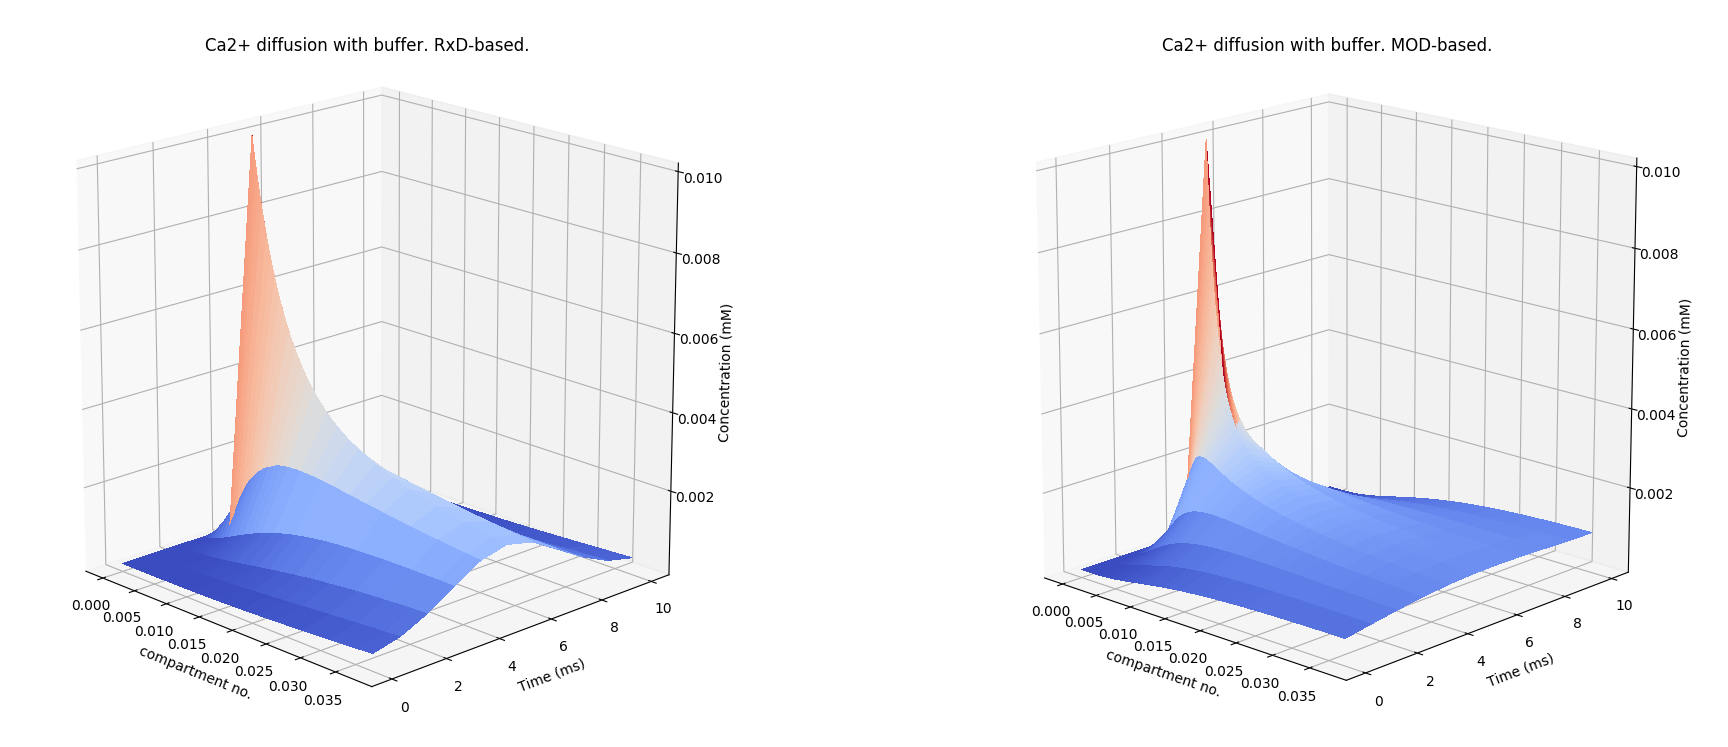
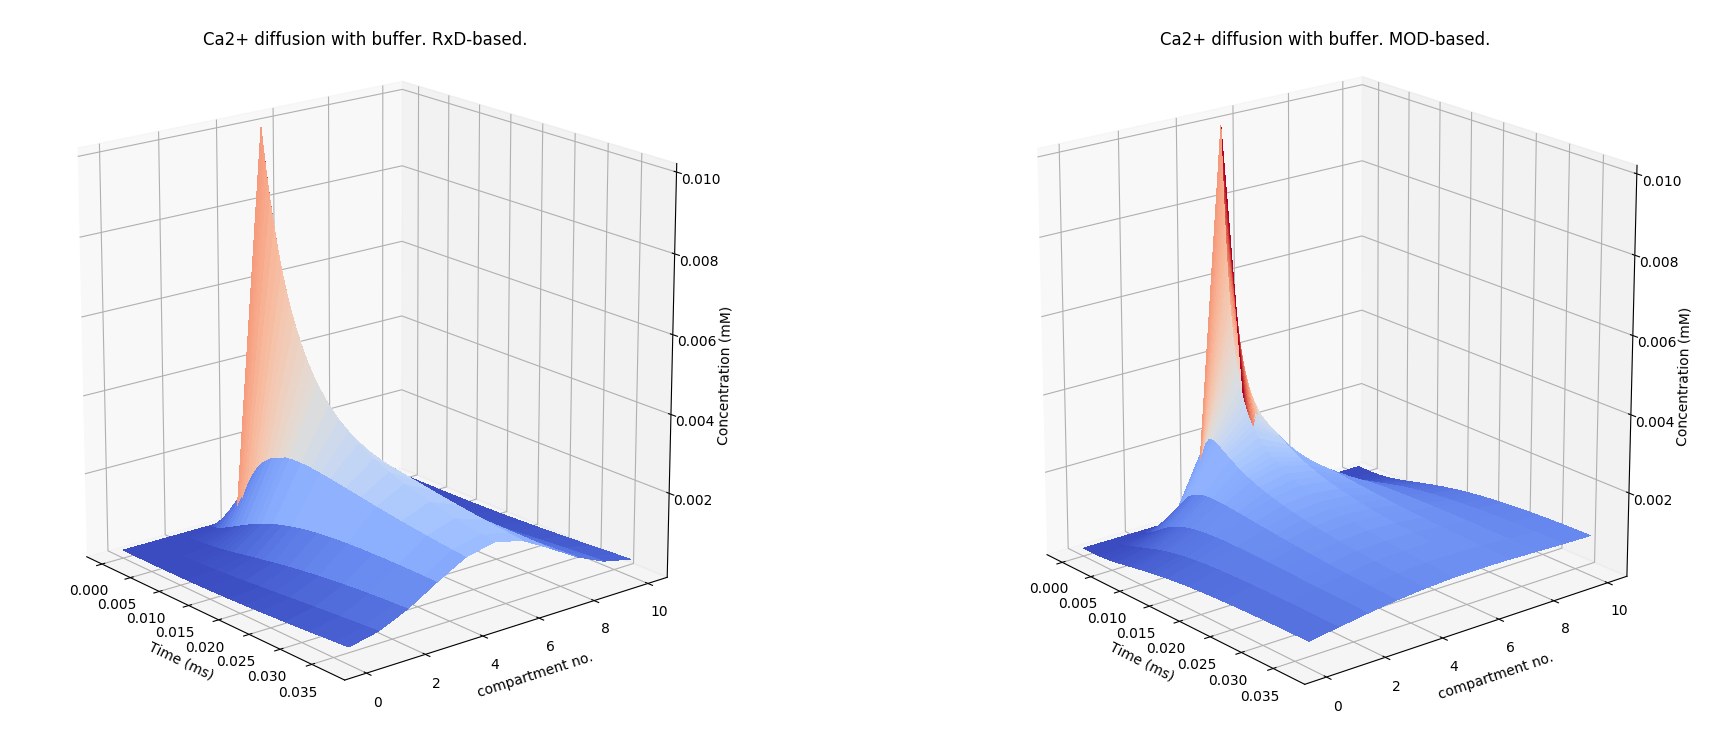
fixed axes

diff --git a/ca2_diffusion/rectangular/cadif_with_mod.py b/ca2_diffusion/rectangular/cadif_with_mod.py
@@ -65,8 +65,8 @@ if __name__ == '__main__':
     ax = fig.add_subplot(111, projection='3d')
 
     ax.set_title("Ca2+ diffusion with buffer. MOD-based.")
-    ax.set_xlabel("compartment no.")
-    ax.set_ylabel("Time (ms)")
+    ax.set_xlabel("Time (ms)")
+    ax.set_ylabel("compartment no.")
     ax.set_zlabel("Concentration (mM)")
 
     ax.plot_surface(x, y, z, cmap=cm.coolwarm, linewidth=0, antialiased=False)

diff --git a/ca2_diffusion/rectangular/cadif_with_rxd.py b/ca2_diffusion/rectangular/cadif_with_rxd.py
@@ -42,8 +42,8 @@ fig = plt.figure()
 ax = fig.add_subplot(111, projection='3d')
 
 ax.set_title("Ca2+ diffusion with buffer. RxD-based.")
-ax.set_xlabel("compartment no.")
-ax.set_ylabel("Time (ms)")
+ax.set_xlabel("Time (ms)")
+ax.set_ylabel("compartment no.")
 ax.set_zlabel("Concentration (mM)")
 
 ax.plot_surface(x, y, z, cmap=cm.coolwarm, linewidth=0, antialiased=False)
